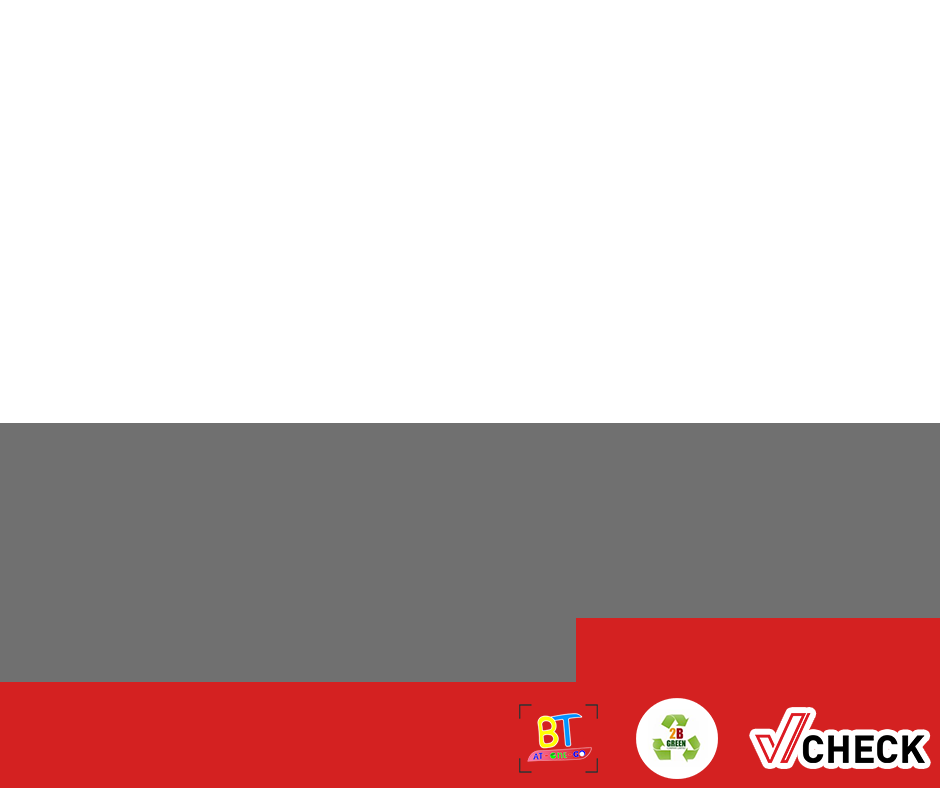
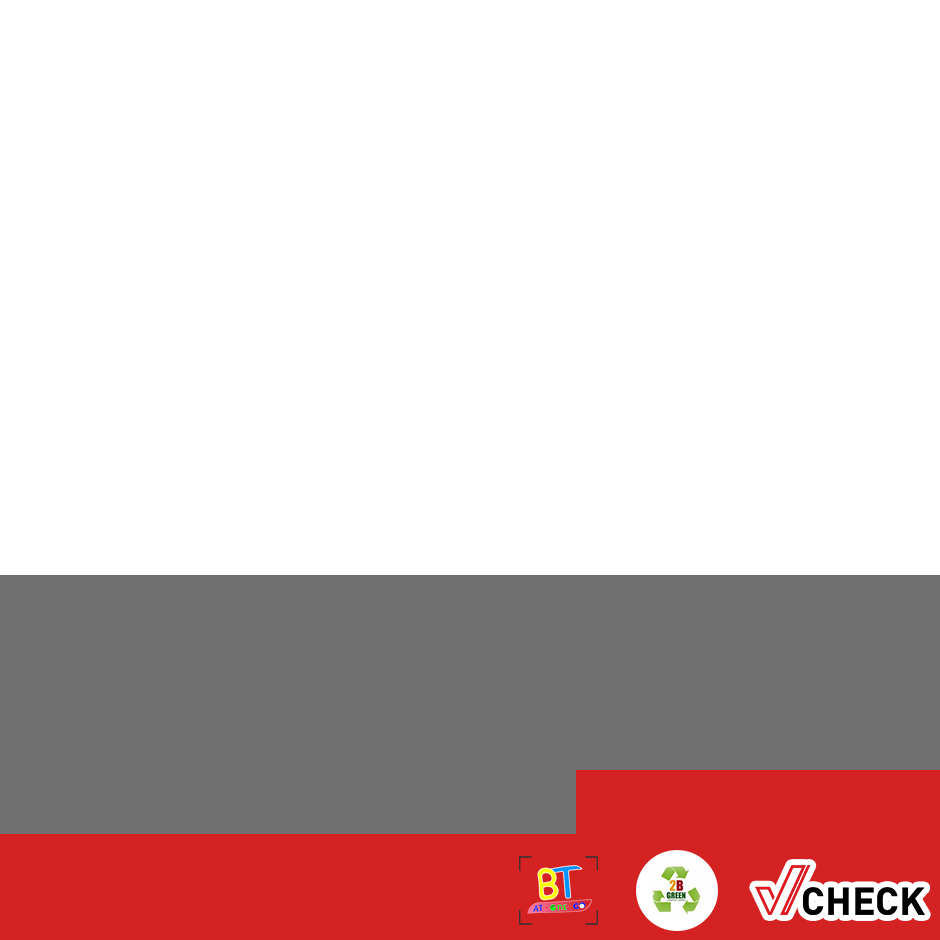
update

diff --git a/app/Http/Controllers/NewsController.php b/app/Http/Controllers/NewsController.php
@@ -72,7 +72,7 @@ class NewsController extends Controller
             // เรียกรูปภาพใส่ $image
             $image = Image::make(storage_path("app/public")."/".$requestData['photo']);
             $image_facebook = Image::make(storage_path("app/public")."/".$requestData['photo']);
-            
+
             // $image->rotate($requestData['rotation']);
             // $image_facebook->rotate($requestData['rotation']);
 
@@ -141,7 +141,7 @@ class NewsController extends Controller
 
             // WEB
             // ปรับขนาดภาพ
-            $image->fit(940, 788);
+            $image->fit(940);
 
             //ลายน้ำ
             $watermark = Image::make(public_path('img/bg car/watermark-logo.png'));
@@ -168,13 +168,13 @@ class NewsController extends Controller
             // หัวข้อข่าว
             $cuont_str =  utf8_strlen($requestData['title']);
             if ($cuont_str >= 23 && $cuont_str <= 30) {
-                $image->text($requestData['title'], 30, 515, function($font) {
+                $image->text($requestData['title'], 30, 665, function($font) {
                     $font->file(public_path('fonts/Prompt/Prompt-SemiBoldItalic.ttf'));
                     $font->size(60);
                     $font->color('#FFFFFF');
                 });
             }elseif($cuont_str < 23 ){
-                $image->text($requestData['title'], 30, 515, function($font) {
+                $image->text($requestData['title'], 30, 665, function($font) {
                     $font->file(public_path('fonts/Prompt/Prompt-SemiBoldItalic.ttf'));
                     $font->size(80);
                     $font->color('#FFFFFF');
@@ -184,13 +184,13 @@ class NewsController extends Controller
             // สถานที่
             $cuont_lo =  utf8_strlen($requestData['location']);
             if ($cuont_lo >= 35 && $cuont_lo < 44) {
-                $image->text($requestData['location'], 30, 588, function($font) {
+                $image->text($requestData['location'], 30, 738, function($font) {
                     $font->file(public_path('fonts/Prompt/Prompt-Regular.ttf'));
                     $font->size(37);
                     $font->color('#FFFFFF');
                 });
             }elseif($cuont_lo < 34 ){
-                $image->text($requestData['location'], 30, 588, function($font) {
+                $image->text($requestData['location'], 30, 738, function($font) {
                     $font->file(public_path('fonts/Prompt/Prompt-Regular.ttf'));
                     $font->size(43);
                     $font->color('#FFFFFF');
@@ -198,7 +198,7 @@ class NewsController extends Controller
             }elseif($cuont_lo >= 45  ){
                 $location = $requestData['location'];
                 $split_location = explode(" ", $location);
-                $image->text($split_location[1]." ".$split_location[2], 30, 588, function($font) {
+                $image->text($split_location[1]." ".$split_location[2], 30, 738, function($font) {
                     $font->file(public_path('fonts/Prompt/Prompt-Regular.ttf'));
                     $font->size(43);
                     $font->color('#FFFFFF');
@@ -206,7 +206,7 @@ class NewsController extends Controller
             }
 
             // วันที่เพิ่มข่าว
-            $image->text("วันที่ : ".$date_now, 620, 670, function($font) {
+            $image->text("วันที่ : ".$date_now, 620, 820, function($font) {
                 $font->file(public_path('fonts/Prompt/Prompt-Black.ttf'));
                 $font->size(36);
                 $font->color('#FFFFFF');
@@ -217,13 +217,13 @@ class NewsController extends Controller
             $name = $requestData['name'];
             if ($cuont_reporter >= 16 ) {
                 $split = explode(" ", $name);
-                $image->text('REPORTER : '.$split[0], 30, 670, function($font) {
+                $image->text('REPORTER : '.$split[0], 30, 820, function($font) {
                     $font->file(public_path('fonts/Prompt/Prompt-Italic.ttf'));
                     $font->size(34);
                     $font->color('#FFFFFF');
                 });
             }elseif($cuont_reporter < 15 ){
-                $image->text('REPORTER : '.$name, 30, 670, function($font) {
+                $image->text('REPORTER : '.$name, 30, 820, function($font) {
                     $font->file(public_path('fonts/Prompt/Prompt-Italic.ttf'));
                     $font->size(34);
                     $font->color('#FFFFFF');
